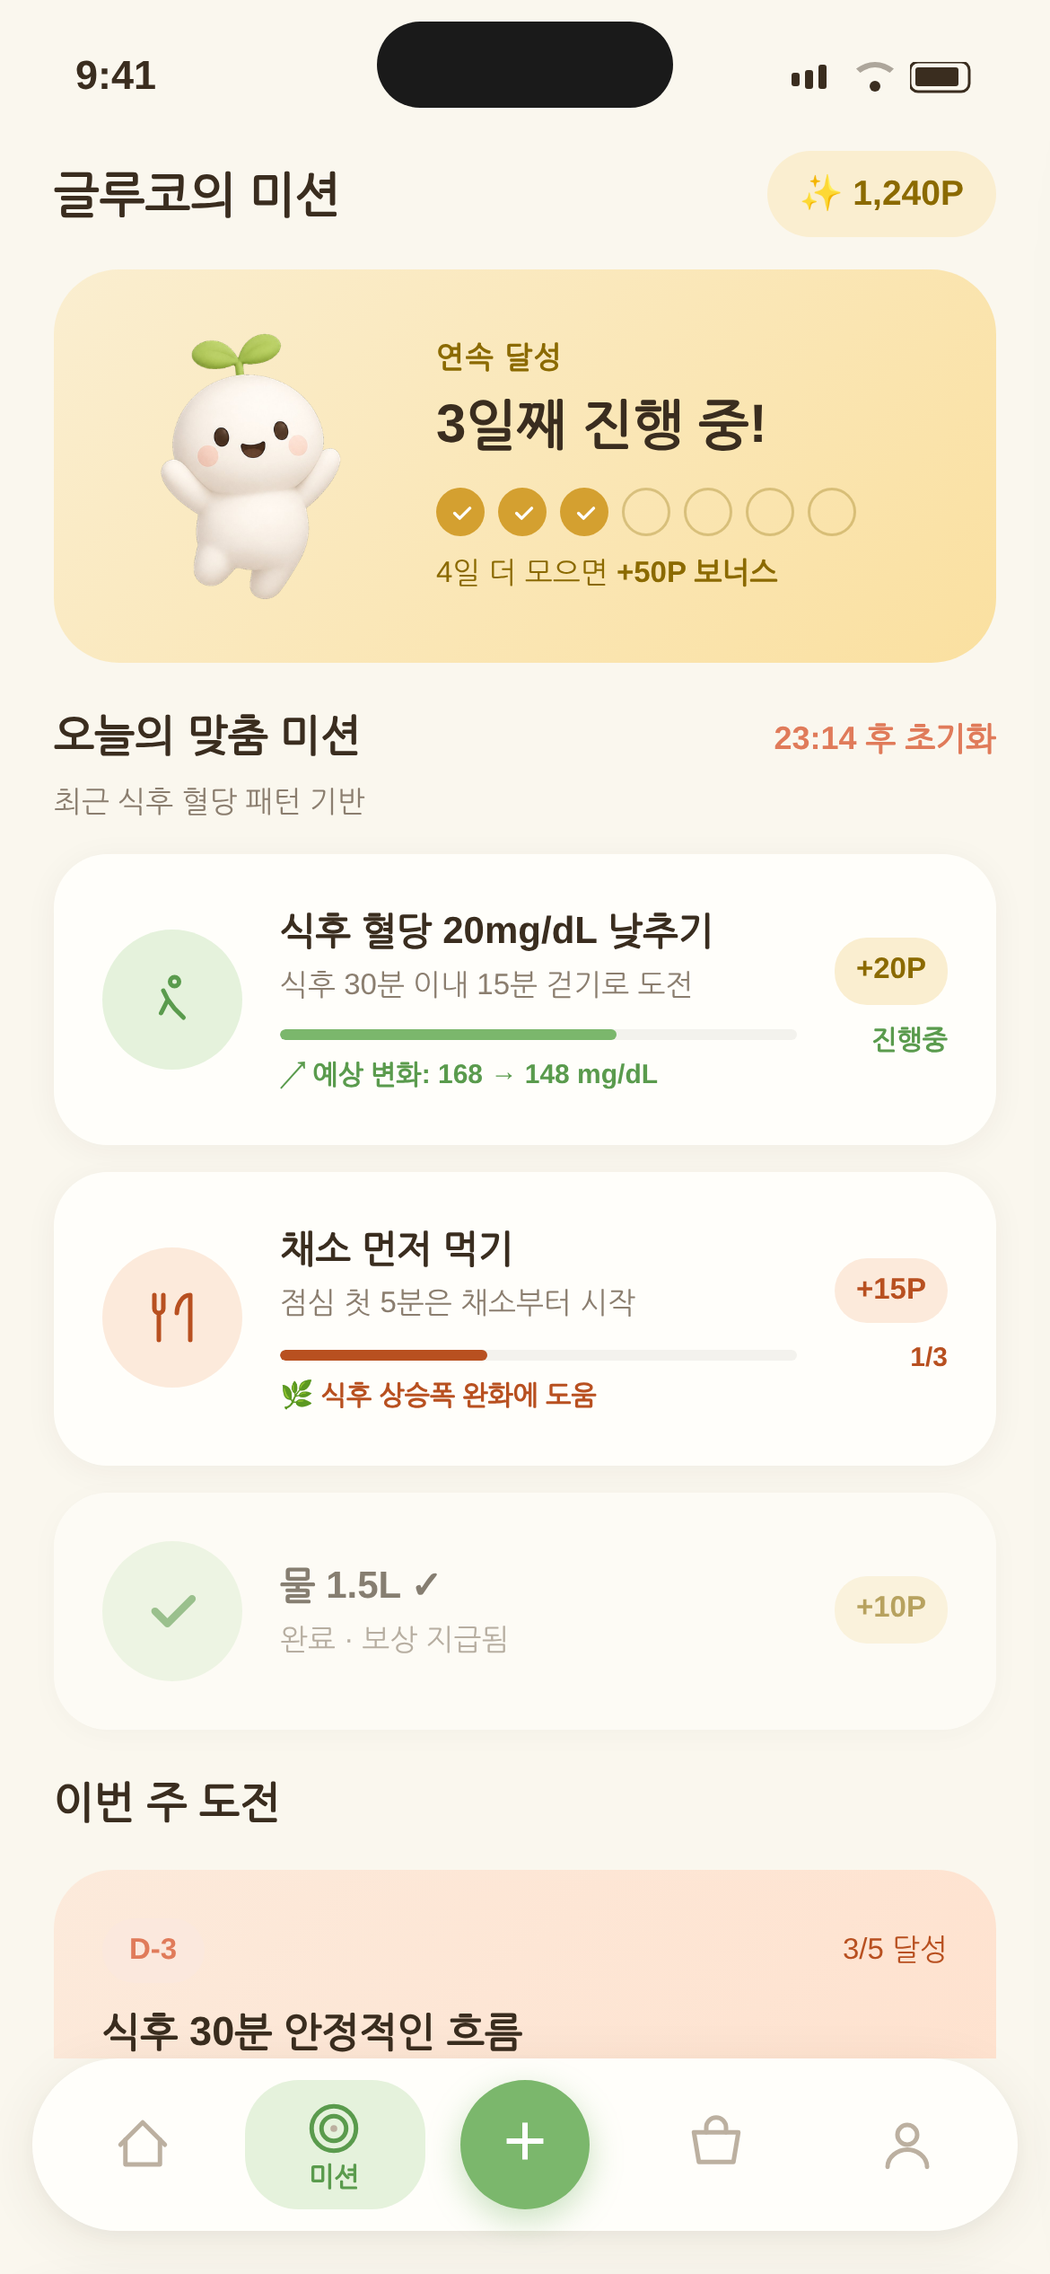
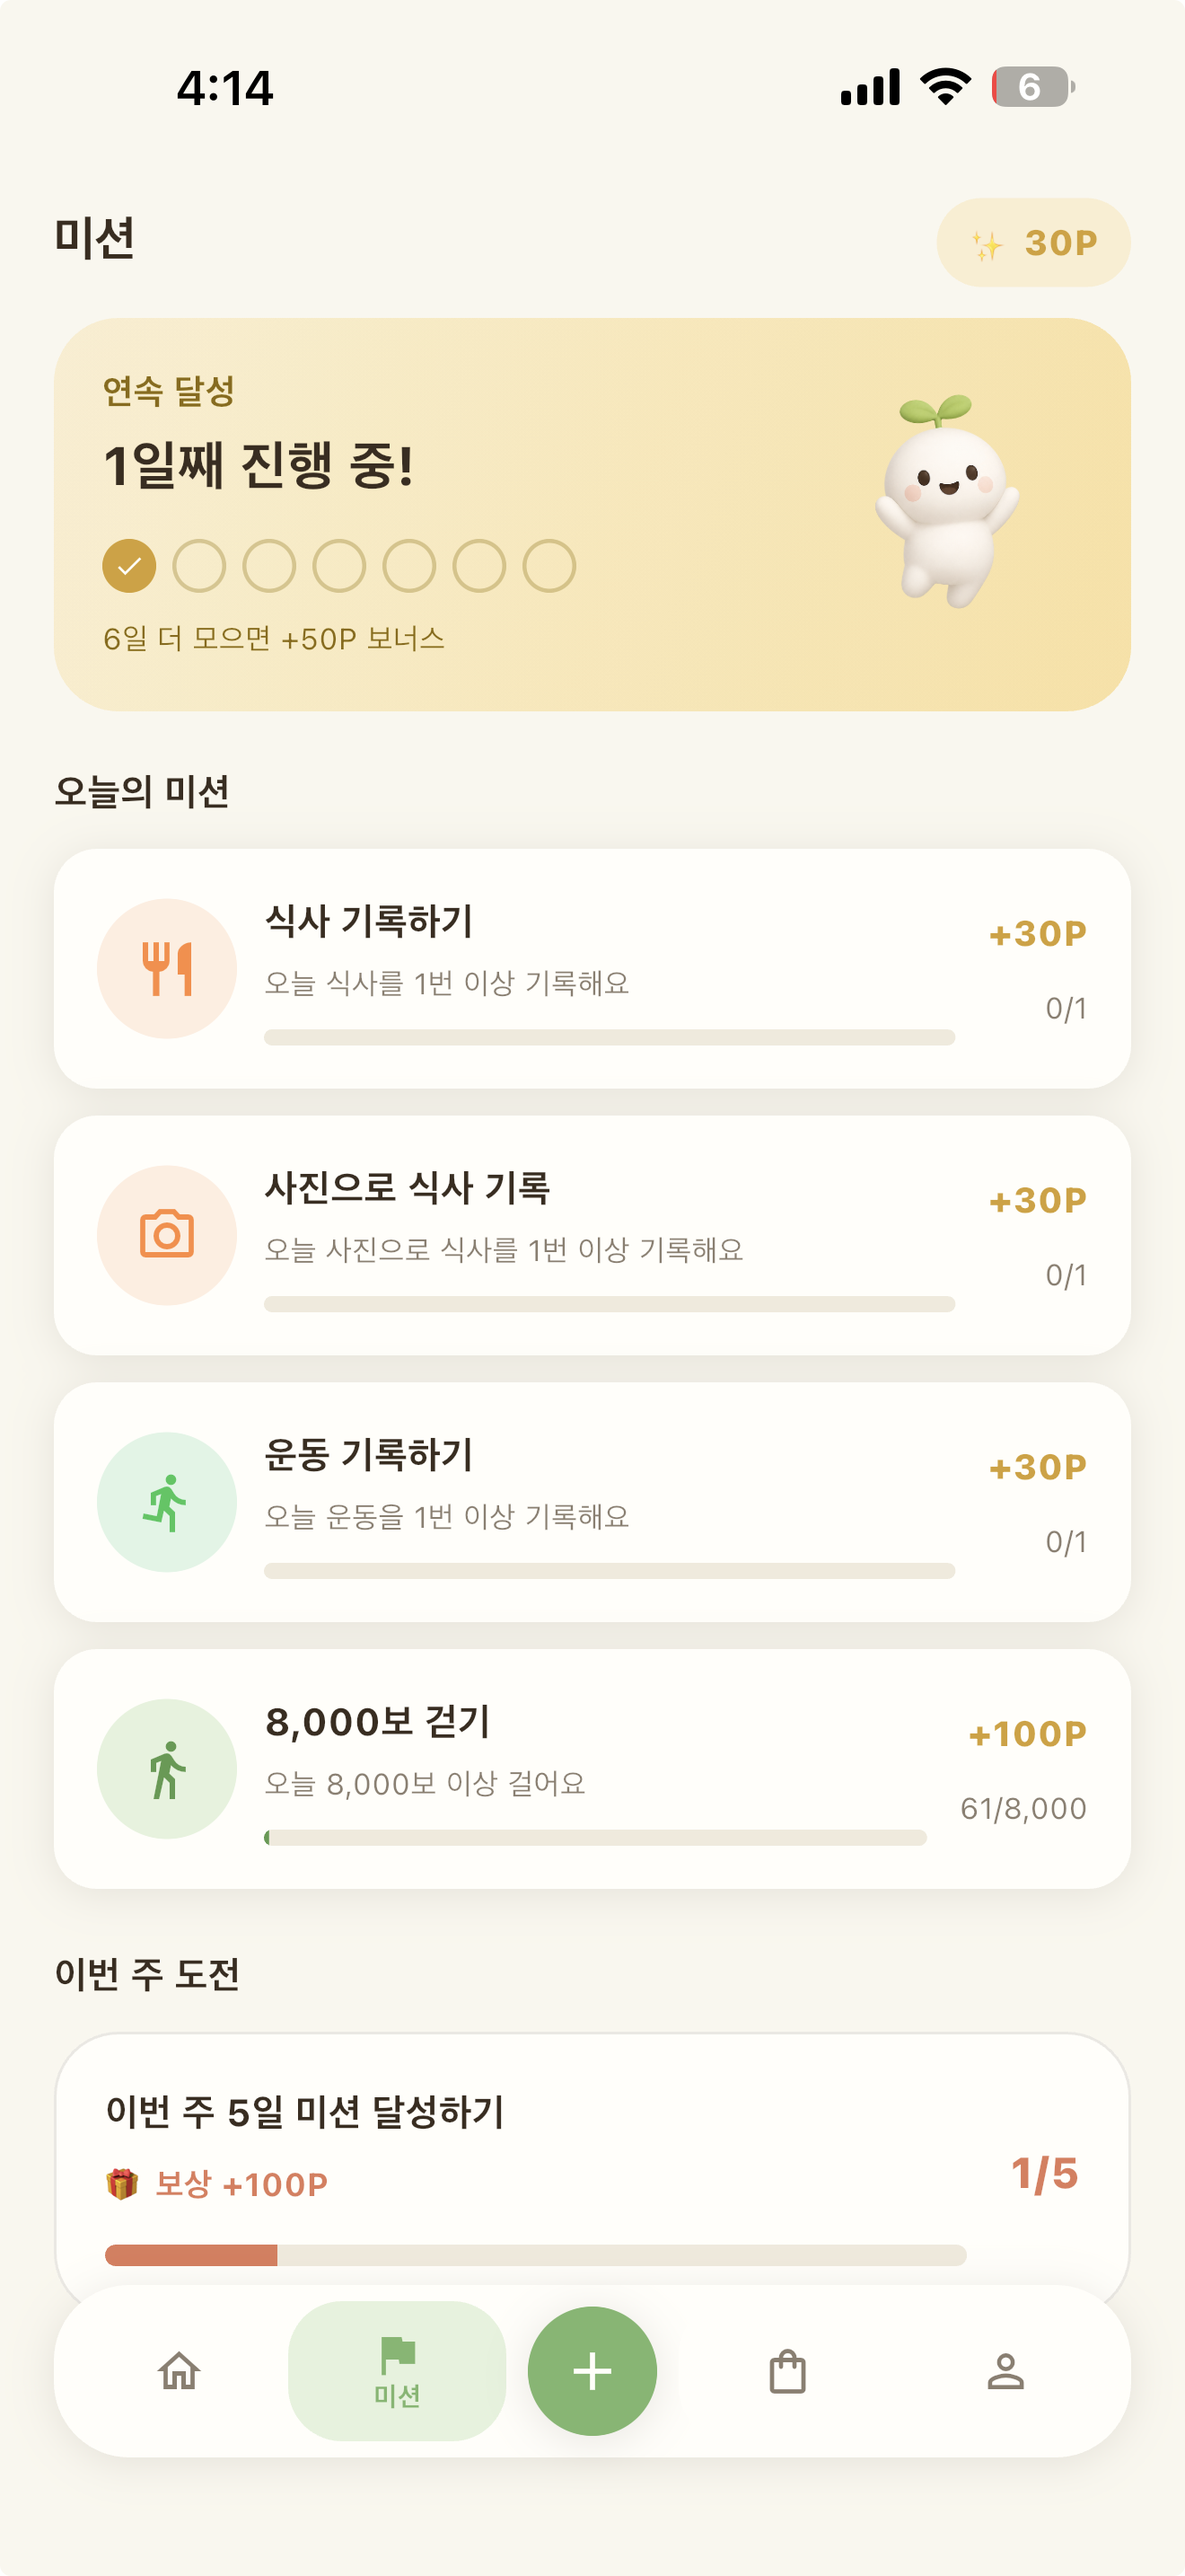
미션 화면 최신본 교체 + 실제 미션 내용에 맞게 문구 수정
- mission 스크린샷을 최신본으로 교체 (구 캐릭터명 "글루코의 미션" 제거됨)
- 실제 미션이 식후 혈당 패턴 기반 초개인화가 아니라 행동 기록 기반으로
  바뀌어, 과장이 되지 않도록 문구를 실제 화면에 맞춰 다시 씀
  (식사 기록 · 사진 기록 · 운동 기록 · 8,000보 걷기 / 연속 달성 / 주간 도전)
- 홈 기능 카드와 기능 페이지 메타 설명에서도 "맞춤 미션" 표현 정리

diff --git a/src/lib/assets.ts b/src/lib/assets.ts
@@ -236,7 +236,7 @@ export const screens = {
   simExercise: screenSimExercise, // 운동별 예상 변화 비교
   logExercise: screenLogExercise, // 운동 기록 입력
   mealDetect: screenMealDetect, // 사진 음식 인식 + 예상 변화
-  mission: screenMission, // 맞춤 미션 · 포인트
+  mission: screenMission, // 미션 · 포인트
   reportGlucose: screenReportGlucose, // 14일 혈당 리포트
   reportMeal: screenReportMeal, // 14일 식사 리포트
   reportMealDetail: screenReportMealDetail, // 끼니별 상승폭 상세
